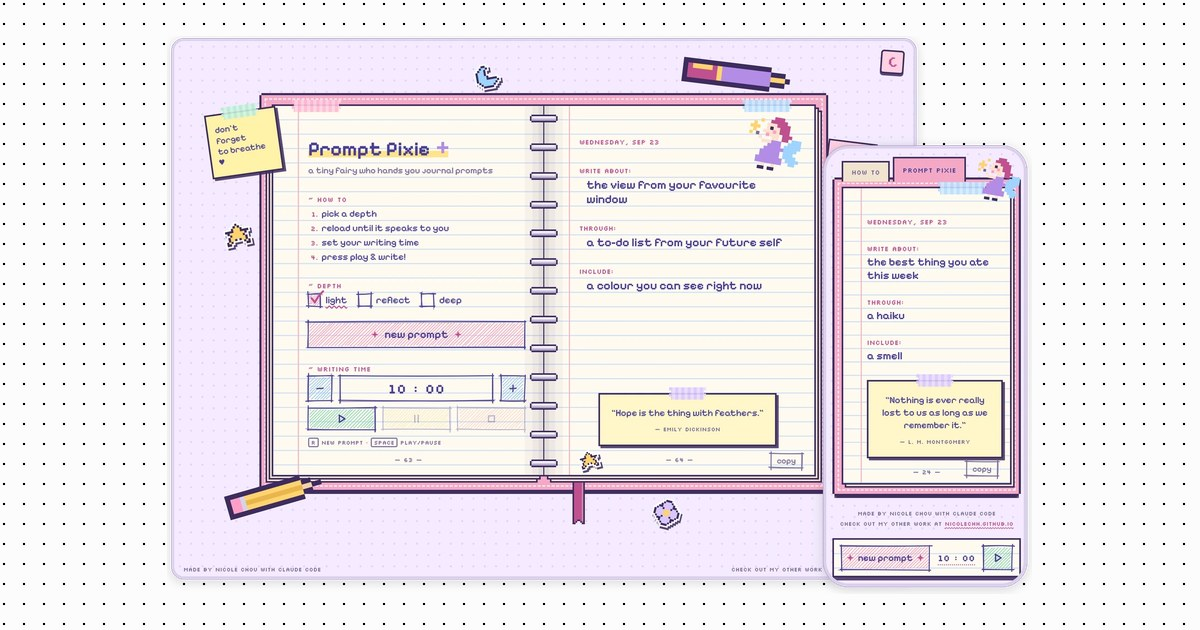
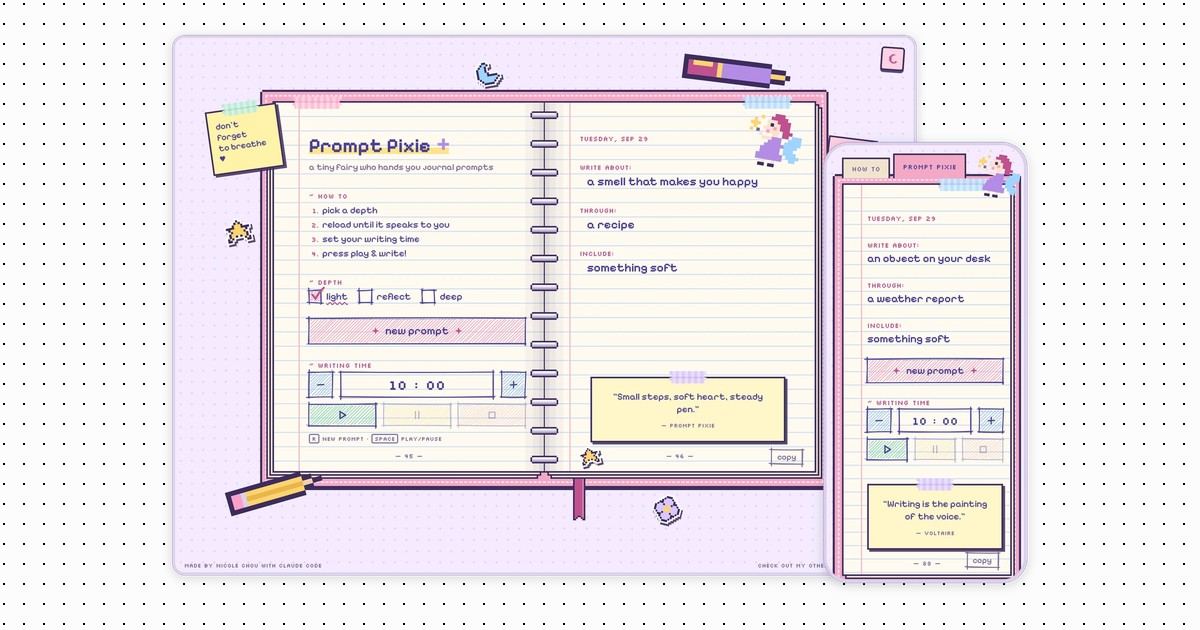
Prompt Pixie: refresh card thumbnail and link-preview image
New screenshots show the controls on the phone's prompt page; the
og:image link is re-stamped so previews pick up the new card.

Changed region(s): [[0.1542, 0.0302, 0.8633, 0.9349]]

diff --git a/pixie/index.html b/pixie/index.html
@@ -11,7 +11,7 @@
   <meta property="og:title" content="Prompt Pixie — Nicole Chou" />
   <meta property="og:description" content="Randomized journal prompts with a built-in timer." />
   <meta property="og:url" content="https://nicolec.xyz/pixie/" />
-  <meta property="og:image" content="https://nicolec.xyz/pixie/og.jpg?v=75412102" />
+  <meta property="og:image" content="https://nicolec.xyz/pixie/og.jpg?v=4f707e8e" />
   <meta property="og:image:width" content="1200" />
   <meta property="og:image:height" content="630" />
   <meta property="og:image:alt" content="Prompt Pixie: the app on desktop and mobile" />
